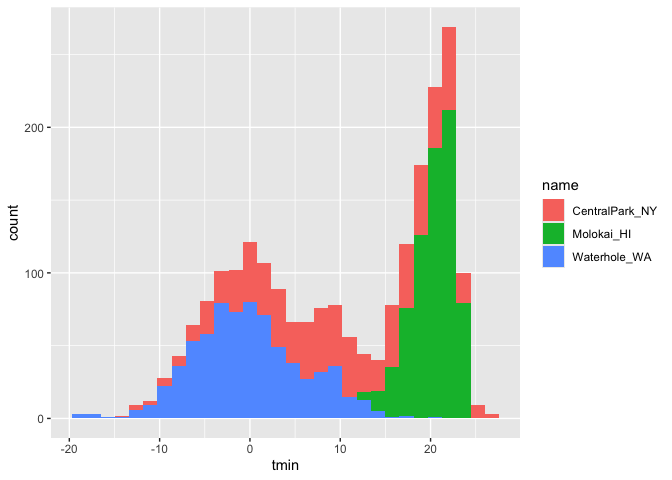
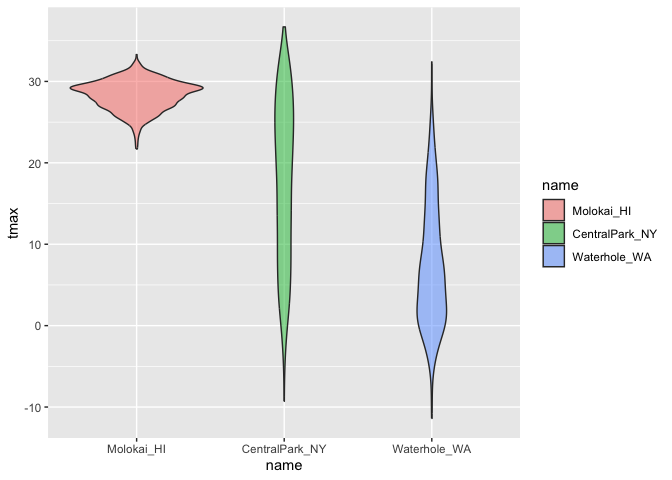
data manipulation

diff --git a/viz_ii.md b/viz_ii.md
@@ -442,3 +442,47 @@ tmax_date_p =
     ## (`geom_point()`).
 
 ![](viz_ii_files/figure-gfm/unnamed-chunk-14-1.png)<!-- -->
+
+## Data manipulation
+
+GGplot automatically arranges variables in alphabetical order (as you
+can see in previous plots, central park is always first, then molokai
+then waterhole). You can use the factor function to change the
+categorization of name from a character variable to a factor variable,
+so that you can control how it’s arranged. I told it to put Molokai_HI
+first. I will create a violin plot. For some reason, I used the same
+code
+
+``` r
+weather_df %>% 
+  mutate(
+    name = as.factor(name),
+    name = forcats::fct_relevel(name, c("Molokai_HI"))
+  ) %>% 
+    ggplot(aes(x= name, y=tmax, fill= name)) +
+    geom_violin(alpha=0.5)
+```
+
+    ## Warning: Removed 17 rows containing non-finite outside the scale range
+    ## (`stat_ydensity()`).
+
+![](viz_ii_files/figure-gfm/unnamed-chunk-15-1.png)<!-- -->
+
+``` r
+weather_df
+```
+
+    ## # A tibble: 2,190 × 6
+    ##    name           id          date        prcp  tmax  tmin
+    ##    <chr>          <chr>       <date>     <dbl> <dbl> <dbl>
+    ##  1 CentralPark_NY USW00094728 2021-01-01   157   4.4   0.6
+    ##  2 CentralPark_NY USW00094728 2021-01-02    13  10.6   2.2
+    ##  3 CentralPark_NY USW00094728 2021-01-03    56   3.3   1.1
+    ##  4 CentralPark_NY USW00094728 2021-01-04     5   6.1   1.7
+    ##  5 CentralPark_NY USW00094728 2021-01-05     0   5.6   2.2
+    ##  6 CentralPark_NY USW00094728 2021-01-06     0   5     1.1
+    ##  7 CentralPark_NY USW00094728 2021-01-07     0   5    -1  
+    ##  8 CentralPark_NY USW00094728 2021-01-08     0   2.8  -2.7
+    ##  9 CentralPark_NY USW00094728 2021-01-09     0   2.8  -4.3
+    ## 10 CentralPark_NY USW00094728 2021-01-10     0   5    -1.6
+    ## # ℹ 2,180 more rows
